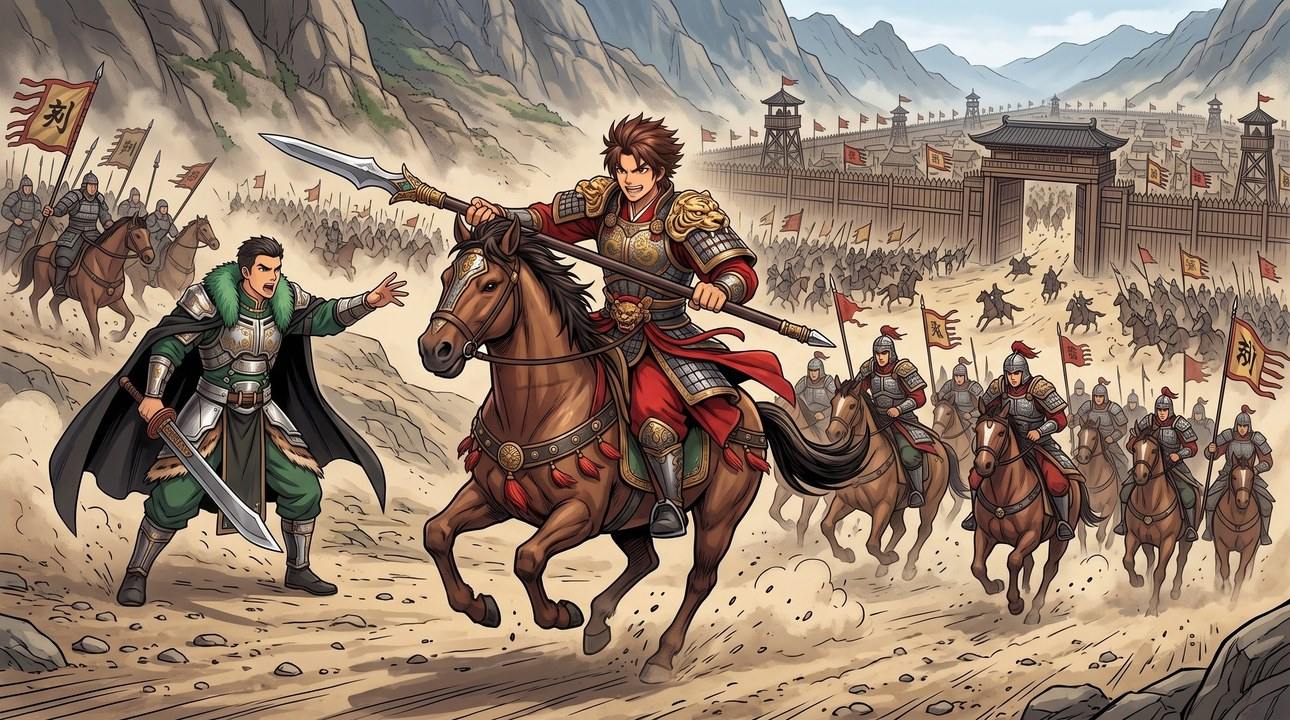
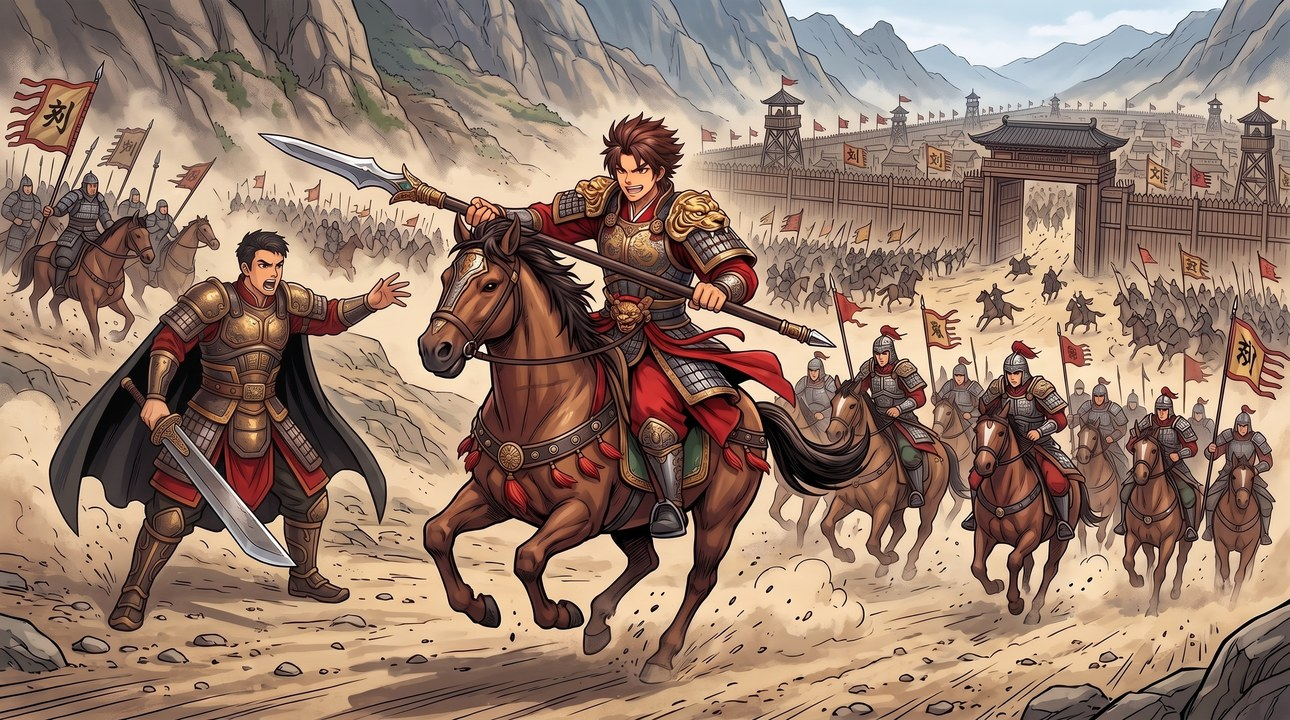
Art: c10_shenting redrawn with the new lord armor
Claude-Session: https://claude.ai/code/session_018QaSx8CT1BCqyCRYWf7FPT

diff --git a/pics/ART-PROMPTS.md b/pics/ART-PROMPTS.md
@@ -12,7 +12,6 @@
 **先重画**（已交付但有地方不对）：
 
 - `title` — 标题画面：主角换了新形象（古铜鎏金甲、朱红内衬、纯黑披风，肩扛大刀），参考 lord_south_armor
-- `c10_shenting` — 主角换了新铠甲
 - `c10_pifu` — 主角换了新铠甲
 - `c9_qiuche` — 主角换了新铠甲
 - `c8_xuexi` — 主角换了新铠甲
@@ -21,22 +20,21 @@
 - `c5_garden` — 主角换了新铠甲
 - `jiujia` — 孙坚旧甲图标：改成古铜鎏金甲
 
-共 8 张，按优先级分档（全部由游戏数据算出，游戏里没用到的不列）：
+共 7 张，按优先级分档（全部由游戏数据算出，游戏里没用到的不列）：
 
 
-**第 3 档 · 主线剧情 CG（7）**
+**第 3 档 · 主线剧情 CG（6）**
 
 1. `c5_garden` — 第三章 · 传国玉玺·朝见（剧情 CG）
 2. `c6_fenghou` — 第四章 · 挟天子·封侯（剧情 CG）
 3. `c4_tonggui` — 第四章 · 挟天子·同归（剧情 CG）
 4. `c8_xuexi` — 第五章 · 荆襄风云·血洗（剧情 CG）
 5. `c9_qiuche` — 第六章 · 淮南折帝旗·深锁（剧情 CG）
-6. `c10_shenting` — 第七章 · 江东小霸王·神亭岭·刘繇军（剧情 CG）
-7. `c10_pifu` — 第七章 · 江东小霸王·匹夫（剧情 CG）
+6. `c10_pifu` — 第七章 · 江东小霸王·匹夫（剧情 CG）
 
 **第 5 档 · 宝物图标（1）**
 
-8. `jiujia` — 孙坚旧甲（宝物图标）（宝物）
+7. `jiujia` — 孙坚旧甲（宝物图标）（宝物）
 
 交图规则：
 
@@ -90,15 +88,6 @@
 
 ```
 横版剧情事件插画：朝见：长安御花园假山后，十岁的小皇帝摘了冕旒放在石头上，揉着脖子，仰头期盼地看着蹲下来与他平视的短发铜甲主角；拐角处小黄门望风；温和而伤感。
-构图：横版 16:9，1920x1080，主要人物位于画面上部三分之二以上。画面中重点人物最多四位；无名的背景人物（士兵、人群）不限。
-画风：复古日系战术动漫 RPG 卡牌插画，参考《兰斯10》画风，赛璐珞上色，墨线干净利落，色彩浓郁鲜艳，视觉小说事件 CG，表情生动，暖色电影感光线；不要文字、不要 UI。
-（主角出场时——主角：年轻男子，黑色短发（现代发型，在汉代很扎眼），穿孙坚留下的古铜鎏金旧甲（古铜色札甲、金边勾勒，胸甲与肩甲有云纹浮雕，鳞片纹甲裙与护腿，带划痕与旧锈），内衬朱红战袍，披纯黑色披风（无毛边），腰束带玉扣的皮带，肩扛孙坚的巨大宽刃古锭刀。）
-```
-
-### `c10_shenting`
-
-```
-横版剧情事件插画：神亭岭下，孙策（二十出头的少年将军，红色战袍、银甲，长枪平端，神情桀骜兴奋）带着十二骑冲向刘繇的连营，马蹄扬起尘土；主角（南线主角，短寸头，古铜鎏金旧甲、朱红内衬、黑披风）在后面伸手大喊想拦又拦不住；远处樊能的大旗开始晃动。
 构图：横版 16:9，1920x1080，主要人物位于画面上部三分之二以上。画面中重点人物最多四位；无名的背景人物（士兵、人群）不限。
 画风：复古日系战术动漫 RPG 卡牌插画，参考《兰斯10》画风，赛璐珞上色，墨线干净利落，色彩浓郁鲜艳，视觉小说事件 CG，表情生动，暖色电影感光线；不要文字、不要 UI。
 （主角出场时——主角：年轻男子，黑色短发（现代发型，在汉代很扎眼），穿孙坚留下的古铜鎏金旧甲（古铜色札甲、金边勾勒，胸甲与肩甲有云纹浮雕，鳞片纹甲裙与护腿，带划痕与旧锈），内衬朱红战袍，披纯黑色披风（无毛边），腰束带玉扣的皮带，肩扛孙坚的巨大宽刃古锭刀。）

diff --git a/pics/ART-LOG.md b/pics/ART-LOG.md
@@ -511,3 +511,4 @@
 - [ ] 2026-10-11 portrait `lord` ← Three Kingdoms Warrior Overlooking the Harbor.png · ok
 - [ ] 2026-10-11 portrait `lord_south_armor` ← Gemini_Generated_Image_xeuguxeuguxeugux.jpg · ok
 - [ ] 2026-10-11 cg `c1_armor` ← c1_armor_new.jpg · ok
+- [ ] 2026-10-11 cg `c10_shenting` ← c10_shenting_new.jpg · ok
